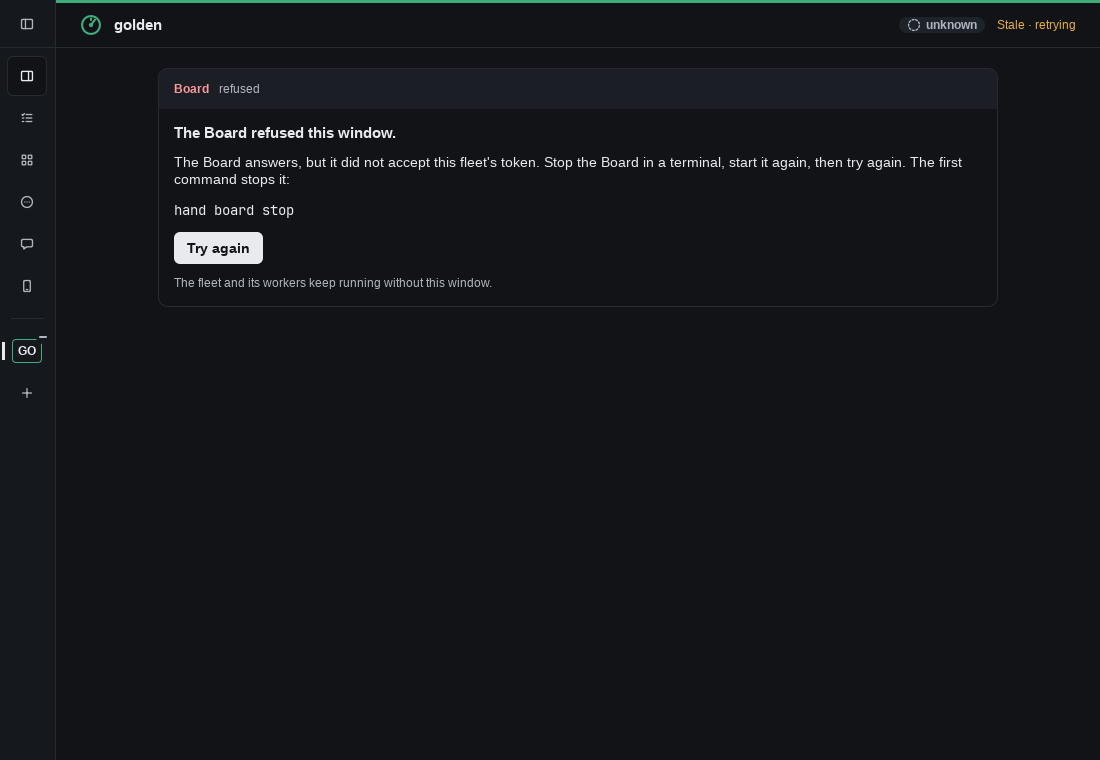
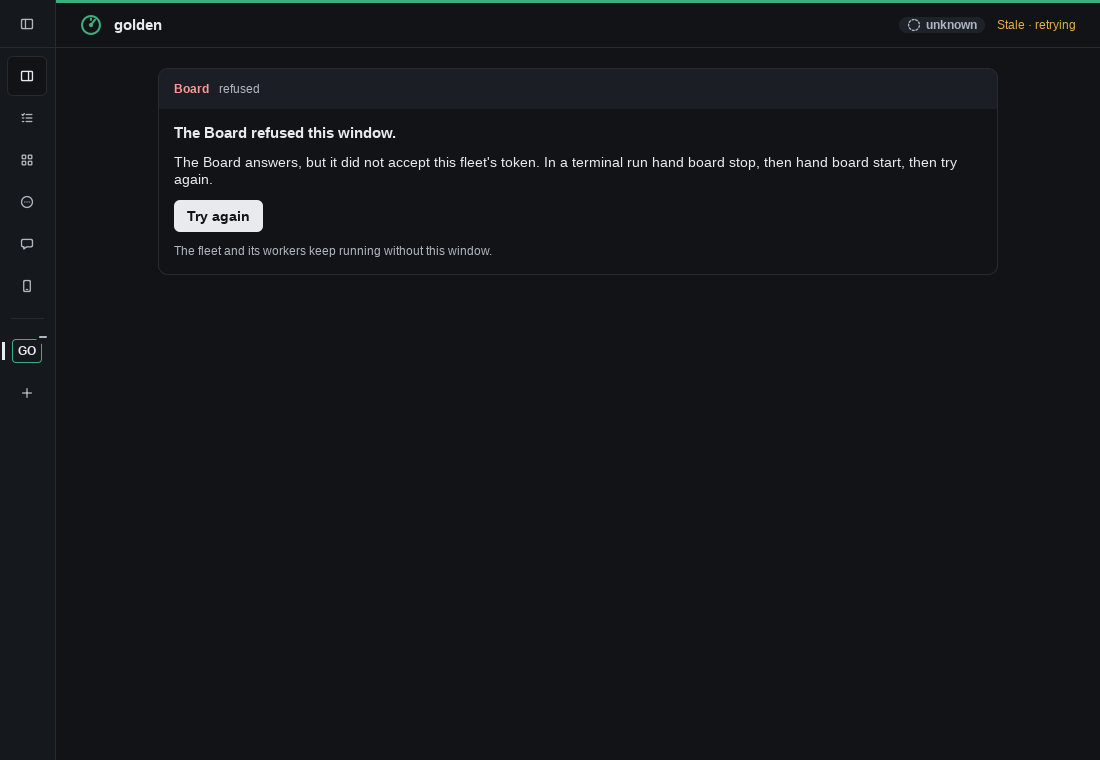
docs(desktop): read the first line of board.pid in the macOS checks, bring the Desktop surface notes in line with the window, and name both commands on the refused-token card

Changed region(s): [[0.1545, 0.2118, 0.4327, 0.3934], [0.4945, 0.2118, 0.8655, 0.2421]]

diff --git a/internal/desktop/start_test.go b/internal/desktop/start_test.go
@@ -150,7 +150,7 @@ func TestTheWindowStartsNothingWhenTheBoardRefusesTheToken(t *testing.T) {
 	tt := newTester(app)
 	app.StartRefresh()
 	tt.Frame()
-	mustText(t, tt, "The Board refused this window.", "hand board stop")
+	mustText(t, tt, "The Board refused this window.", "The Board answers, but it did not accept this fleet's token. In a terminal run hand board stop, then hand board start, then try again.")
 	if spy.count() != 0 {
 		t.Fatalf("starts = %d, want 0", spy.count())
 	}
@@ -554,7 +554,7 @@ func TestScenesBoardRefused(t *testing.T) {
 			app := startApp(t, func() (desktop.ReadModel, error) { return errorFixture(), nil }, (&startSpy{}).run)
 			app.Post = func(func()) {}
 			tt := darkTester(app, dark)
-			mustText(t, tt, "The Board refused this window.", "hand board stop", "Try again")
+			mustText(t, tt, "The Board refused this window.", "The Board answers, but it did not accept this fleet's token. In a terminal run hand board stop, then hand board start, then try again.", "Try again")
 			shot(t, tt, "board-refused-"+theme)
 		})
 	}

diff --git a/internal/desktop/boardstart.go b/internal/desktop/boardstart.go
@@ -216,8 +216,8 @@ func (a *App) stateCard(c *ui.Context, k kit.Colors, p palette) {
 			})
 	case a.auth:
 		card("Board", p.fail, "refused", "The Board refused this window.",
-			"The Board answers, but it did not accept this fleet's token. Stop the Board in a terminal, start it again, then try again. The first command stops it:",
-			"hand board stop", "The fleet and its workers keep running without this window.",
+			"The Board answers, but it did not accept this fleet's token. In a terminal run hand board stop, then hand board start, then try again.",
+			"", "The fleet and its workers keep running without this window.",
 			nil, func() {
 				if button(c, k, "start:retry", "Try again", true) {
 					a.Refresh()

diff --git a/internal/desktop/view_test.go b/internal/desktop/view_test.go
@@ -1234,7 +1234,7 @@ func TestEmptyStates(t *testing.T) {
 func TestErrorState(t *testing.T) {
 	app := newApp(t, errorFixture())
 	tt := newTester(app)
-	mustText(t, tt, "The Board refused this window.", "hand board stop")
+	mustText(t, tt, "The Board refused this window.", "The Board answers, but it did not accept this fleet's token. In a terminal run hand board stop, then hand board start, then try again.")
 	mustNotText(t, tt, "Back")
 	click(t, tt, "Try again")
 	mustText(t, tt, "The Board refused this window.")

diff --git a/internal/desktop/router_internal_test.go b/internal/desktop/router_internal_test.go
@@ -14,3 +14,10 @@ func TestAPairedHostsRefusalsShowTheirOwnSentenceNotTheLoopbackOne(t *testing.T)
 		}
 	}
 }
+
+func TestAnUnacceptedTokenNamesBothCommands(t *testing.T) {
+	want := "the board did not accept this fleet's token; stop the board with `hand board stop`, then start it again with `hand board start`"
+	if got := friendly(&APIError{Status: 401}); got != want {
+		t.Fatalf("401 = %q", got)
+	}
+}

diff --git a/.impeccable/surfaces/internal-desktop.md b/.impeccable/surfaces/internal-desktop.md
@@ -12,21 +12,21 @@ related_targets:
 ## Scope and mode
 
 - **Covers:** `hand-desktop`, a MyGo v0.7.4 window (pinned, cgo-free) that is a client of the running Board:
-  - the rail: 56px of icons (232px with labels) for Board with its Needs count, toned by the worst item's severity as the Board's is, Tasks, Conversation with its working dot, Screen and Companion (Board returns to the two panes; Tasks opens the searchable Tasks page; Conversation is inert until its page exists; Screen and Companion open the Board's pages in the browser), then a tinted mark for each fleet this machine can open;
+  - the rail: 56px of icons (232px with labels) for Board with its Needs count, toned by the worst item's severity as the Board's is, Tasks, Conversation with its working dot, Screen and Companion (Board returns to the two panes; Tasks opens the searchable Tasks page; Conversation is inert until its page exists; Companion opens the Companion page), then a tinted mark for each fleet this machine can open;
   - the two panes: Needs and Tasks on the left, divided by a draggable divider from the supervisor on the right (the chat starts at 38% wide clamped to 400 to 720 px and may be dragged down to 360 px, the work pane never under 440 px, the width kept in `prefs.json` and clamped to the room at every frame);
   - below 900px: no rail and no divider, the masthead's menu button opening the rail's items as a sheet, and the Board's three tabs (Needs, Tasks, Chat), one panel at a time, the work column at 880 px and the conversation at 760 px; the tab is remembered, seeded once as the Board seeds it, and an opened ref selects the tab that holds it;
   - the window's own size, kept in `prefs.json` beside the zoom and the divider, restored on start and clamped to the monitor's work area;
-  - the supervisor's pane head: its ref and model, the controls that apply (Resume with New session in the menu, or Start new, same as the supervisor; Interrupt; Force, a stand-in for the Board's "Screen misread?" until the blocked item is built; Stop with its second press) and an overflow menu with Refresh now, Open in browser and Refresh models; while it runs, the model line is the Board's model menu (Running now, the model and effort change, the switch to another harness, Refresh models) and a pending switch reads next turn with Cancel switch; with no supervisor ever, a Start strip of each harness's model and effort that starts one, with Drop switch when the last started supervisor carries a pending switch, and the status's hint on the composer's foot; a conversation that cannot be read shows its own error with Retry in the chat pane and keeps what it held; a link to the blocked Needs item, `The question is in Needs`, while the supervisor is blocked and Needs holds that item (the question and its buttons, or the key toolbar, are in the item);
+  - the supervisor's pane head: its ref and model, the controls that apply (Resume with New session in the menu, or Start new, same as the supervisor; Interrupt; Force, a stand-in for the Board's "Screen misread?" until the blocked item is built; Stop with its second press) and an overflow menu with Refresh now and Refresh models; while it runs, the model line is the Board's model menu (Running now, the model and effort change, the switch to another harness, Refresh models) and a pending switch reads next turn with Cancel switch; with no supervisor ever, a Start strip of each harness's model and effort that starts one, with Drop switch when the last started supervisor carries a pending switch, and the status's hint on the composer's foot; a conversation that cannot be read shows its own error with Retry in the chat pane and keeps what it held; a link to the blocked Needs item, `The question is in Needs`, while the supervisor is blocked and Needs holds that item (the question and its buttons, or the key toolbar, are in the item);
   - Needs: bands by severity in the page's order, each headed by its word in the band's tone; 44px rows with the kind's icon, refs and time; the top item open as a card with its band's toned header, any row opening in place and closing again, one open at a time; a report opens to its excerpt and Mark read, a failure to its attempt's reason, a decision to the Board's choice list, its recommended badge and consequence lines, a note and a primary Send answer; a sent answer collapses the row to "Sent <option> · waiting…" until the next status removes it, a picked `other` with no note is refused before the request with the Board's sentence and the note focused, and a server refusal keeps it open with the reason in the receipt; a kind with nothing to show stays inert; after Mark read or an answer a receipt toast shows for 4 seconds and the next item opens; nothing waiting shows All clear, when it cleared and the summary;
   - the conversation: the entries, the working turn and its queued messages, opened at the newest entry, and the composer pinned below it: one box with a two-row message field, the status's hint, the Ctrl Enter key hint and Send;
   - Tasks: the grouped task list, and each task's page in the viewer;
   - the Tasks page, opened by the rail's Tasks item or the fleet page's search field: a search over every task with the status, project, since and until filters, the applied filters as removable chips, the Board's day groups and 48 px rows with the state icon, ref, title, project badge, attempt line, deliverable and finish time, the total, and Previous/Next over its pages; an empty search and a page past the last show "No tasks match.", a refused parameter shows the board's sentence with Retry, and a row opens its task in the viewer, which closes back to the search;
-  - the pages of a task, an attempt and a decision, opened in the viewer over the Board, with Back through them and the close button, Escape or the backdrop for the whole stack; a report has no page of its own and opens its task at the report's card; an open run shows "Opening in the browser…" under the strip and its failure there with Dismiss, as does a document that fails to open;
+  - the pages of a task, an attempt and a decision, opened in the viewer over the Board, with Back through them and the close button, Escape or the backdrop for the whole stack; a report has no page of its own and opens its task at the report's card; a Board link with no page of its own in the window shows "this Board page has no page in this window" with Dismiss, as does a document that fails to open;
   - a document or a folder of the fleet in the same viewer, from a delivered file, a link to `/<fleet id>/doc/…` or a relative link inside a Markdown file: Markdown rendered, text as numbered lines read in windows of 500 through the API's `next` with Earlier and Later, a picture, and a folder's listing with its pager; a file's crumbs open its folders, Previous and Next step through the folder (a picture's through the pictures only), Copy path copies the fleet-relative path, and every other kind, such as PDF, HTML, SVG, CSV, video, audio and binary, and any refusal, shows the Board's sentence with Open in browser, which runs `hand open --doc PATH`;
   - an open decision's options, its note field and Send answer, a report's Ack, a message to the supervisor, and the supervisor controls: start, resume, stop, interrupt, force, and, while it is blocked, the ask's option buttons or the fixed key toolbar;
   - the empty and error states, including no board, no fleet (the New fleet form, its field errors and its failure card with the exact command), a token the board refuses and an action the board refuses;
   - auto-refresh: the selected fleet's status, its tasks list and the open page's data poll while the window is open (see Refresh);
-  - remote fleets: the rail's Connect remote fleet item and the zero-fleet card's button open one card (paste field and device name, then "Add 4d92…6ed6?" with Add and Back before any dial); a remote fleet's rail row shows a second line with its host's state, an icon shape and a word (Connected, Connecting, Host busy, Can't reach host, Board not running, Revoked, Not recognised, Key replaced), the masthead repeats it as a pill whose tooltip gives the host and its pairing date, and a refused fleet's card gives the pairing date with Pair again and Forget host; the icons and tones are the existing running, passing, waiting, idle and failure shapes, no new colour. A remote fleet hides Screen, Companion, Open in browser, Open as a page and Refresh models and shows no `hand open` or Board-start text; a malformed hosts file shows "Remote hosts are hidden" with its error.
+  - remote fleets: the rail's Connect remote fleet item and the zero-fleet card's button open one card (paste field and device name, then "Add 4d92…6ed6?" with Add and Back before any dial); a remote fleet's rail row shows a second line with its host's state, an icon shape and a word (Connected, Connecting, Host busy, Can't reach host, Board not running, Revoked, Not recognised, Key replaced), the masthead repeats it as a pill whose tooltip gives the host and its pairing date, and a refused fleet's card gives the pairing date with Pair again and Forget host; the icons and tones are the existing running, passing, waiting, idle and failure shapes, no new colour. A remote fleet hides Companion and Refresh models and shows no `hand open` or Board-start text; a malformed hosts file shows "Remote hosts are hidden" with its error.
 - **Not in v1:** any other write (attachments, because the API sends text only), the document viewer's Find, Copy contents, Download, CSV tables and Follow, Companion pairing, and a server-push channel: updates arrive by polling, never over Server-Sent Events.
 - **Mode:** Operate.
 
@@ -36,9 +36,9 @@ related_targets:
 - **Job:** answer "is anything paged?" without a browser, open one task, attempt or decision to read it, and send the supervisor one message.
 - **Constraints:**
   - the window is a client, never a second owner of state: it reads `/api/v1` over loopback, writes only a message, an answer, an acknowledgement or a supervisor control (start, resume, stop, interrupt, force and keys), and, wherever the New fleet form shows (the zero-fleet card or the rail item), runs `hand init` and `hand board start` from it, because a new fleet has no Board route yet (no other `hand` verb), and keeps its composer drafts in its own state folder;
-  - it lists a fleet when its link resolves and its `hand.db` is there, names it from the board when the board answers, and shows a fleet whose `board.token` is missing or unreadable with the `hand open` fix;
+  - it lists a fleet when its link resolves and its `hand.db` is there, names it from the board when the board answers, and shows a fleet whose `board.token` is missing or unreadable with the `hand open` fix, and one whose token the board refuses with the `hand board stop` then `hand board start` fix;
   - the credential is the token the board already writes, `board.token` in the fleet home, sent as the fleet's session cookie `hand_board_<fleet id>`. The desktop reads it; it never prints it and never adds it to a URL. A mutation reads the session's CSRF token from `GET /api/v1/session` and sends it as `X-Hand-CSRF`;
-  - the board address is `board.addr` in `$SECONDHAND_HOME`, the file `hand open` writes, and it must be a loopback address, because the API answers nowhere else;
+  - the board address is `board.addr` in `$SECONDHAND_HOME`, the file the board writes, and it must be a loopback address, because the API answers nowhere else;
   - opening and closing the window start and stop nothing: the board, the watcher and the fleet keep running;
   - Linux first: the window builds on macOS and Windows, and its binary refuses to start there with that reason, until those runs are green (`docs/platforms.md`);
   - light and dark follow the system through MyGo's theme;
@@ -56,7 +56,7 @@ OWN-WORLD: The Board's palette with both themes: white ground, `#f6f7f9` panel, 
 
 STORY: The operator opens the window and knows whether anything is paged: the masthead names the fleet and the supervisor's state, the rail's Board icon counts the Needs, in the tone of the worst. In the pane head they start, resume, stop (two presses) or interrupt the supervisor; when it is blocked, Force appears, the pane head shows only the state word and a link to Needs, and the blocked Needs item holds the question and its keys, each press carrying the screen's revision, digest and last pressed sequence. They read the toned rows, click the decision, choose an option, add a note and send the answer; a report a step away gets Ack. In the pane beside the work they type a message and press Ctrl+Enter (Cmd+Enter on macOS) to send it, or Enter for a new line; a half-typed draft waits there after a fleet switch or a closed window. Back returns. They close the window; nothing else about the fleet changes.
 
-FIRST VIEWPORT: At 1100×760: the 56px icon rail at the left (Board with its Needs count, Tasks, Conversation, Screen, Companion, then the fleet marks); the masthead with the tint rule, the fleet's mark, name and id, the state pill, the queued count and the context bar and figure; below it, the Needs and Tasks, and the supervisor's conversation with its pane head and its composer.
+FIRST VIEWPORT: At 1100×760: the 56px icon rail at the left (Board with its Needs count, Tasks, Conversation, Companion, then the fleet marks); the masthead with the tint rule, the fleet's mark, name and id, the state pill, the queued count and the context bar and figure; below it, the Needs and Tasks, and the supervisor's conversation with its pane head and its composer.
 
 FORM: It takes these raises:
 - from the Board: the severity ramp, the pale tone fills, the word-plus-shape rule and the flat resting surface;
@@ -84,11 +84,11 @@ One screenshot per scene, 1100×760, under `docs/images/desktop/`, written by th
 | `11-composer.png` | a typed message in the Board's one composer box, with Send; the chat pane is 418 px here, so the key hint is hidden |
 | `12-composer-error.png` | a failed send, its error and the text it kept |
 | `13-supervisor-controls.png` | a blocked supervisor's pane head with its controls and Force, the screen not yet in Needs so no link |
-| `14-open-error.png` | Open in browser with no `hand` to run, and its inline error |
+| `14-open-error.png` | a Board link with no page in the window, and its inline error |
 | `15-delivered.png` | the viewer's Delivered aside in a task's page: a PR and a link that open in the browser, a fleet file that opens in the viewer, and a file outside the fleet as plain text |
 | `16-blocked-ask.png` | a blocked supervisor: the question with one button per option in the blocked Needs item, in place of the key toolbar, and the pane head's link to it |
 | `17-open-link.png` | the viewer opened from a `handboard://open/` link, on a decision's page |
-| `18-overflow-menu.png` | the pane head's menu: Refresh now, Open in browser, Refresh models and the disabled notification row of a window where the system offers none |
+| `18-overflow-menu.png` | the pane head's menu: Refresh now, Refresh models and the disabled notification row of a window where the system offers none |
 | `85-notify-menu-<off, on or unavailable>-<light or dark>.png` | the same menu's notification row: unchecked, checked, and disabled with its reason |
 | `19-stop-armed.png` | Stop after its first press: "Press again to stop" |
 | `20-panes-<width>x<height>-<light or dark>.png` | the two panes at 1100×760 and 1440×900 in both themes |
@@ -140,8 +140,8 @@ One screenshot per scene, 1100×760, under `docs/images/desktop/`, written by th
 | `58-doc-text-window-1-1100x760-<light or dark>.png` | a text file's first window: "From line 1 of a 120 B file", Later, Previous and Next, and the numbered lines |
 | `59-doc-text-window-2-1100x760-<light or dark>.png` | the second window: "From line 4", Earlier, line numbers 4 and 5, tabs shown as spaces |
 | `60-doc-image-1100x760-<light or dark>.png` | a picture drawn from its bytes in a bordered box, Next and no Previous |
-| `61-doc-browser-1100x760-<light or dark>.png` | a PDF: the Board's sentence and Open in browser in the notice box |
-| `62-doc-refused-1100x760-<light or dark>.png` | a refused path: the Board's words and Open in browser, with no Retry |
+| `61-doc-browser-1100x760-<light or dark>.png` | a PDF: the Board's sentence in the notice box |
+| `62-doc-refused-1100x760-<light or dark>.png` | a refused path: the Board's words, with no Retry |
 | `63-doc-error-1100x760-<light or dark>.png` | a document the board did not answer: the error card with Close and Retry |
 | `64-doc-overtaken-1100x760-<light or dark>.png` | the newer document on screen after a slower answer for another one lands |
 | `65-doc-markdown-880x760-<light or dark>.png` | a Markdown file below 900 px |
@@ -162,7 +162,7 @@ The day divider prints the day in the entries' own clock (`Sat, Oct 31`), not th
 
 ## Auth decision
 
-The desktop reads the fleet's `board.token` and sends it as the cookie the board already accepts for that fleet, the same value `hand open` exchanges for a browser. A fleet without a token, or whose token the board refuses, is named in the error with the fix (`hand open` in the fleet); the token never appears in a URL, an error or a log. The API adds the actions and a read-only `GET /api/v1/session` that answers the session's CSRF token; a mutation sends it as `X-Hand-CSRF`, and the board refuses one without it with `403 csrf_required`. There is no local-trust bypass.
+The desktop reads the fleet's `board.token` and sends it as the cookie the board already accepts for that fleet, the same value the Board exchanges for a browser cookie. A fleet without a token is named in the error with the fix (`hand open` in the fleet), and one whose token the board refuses with `hand board stop` then `hand board start`; the token never appears in a URL, an error or a log. The API adds the actions and a read-only `GET /api/v1/session` that answers the session's CSRF token; a mutation sends it as `X-Hand-CSRF`, and the board refuses one without it with `403 csrf_required`. There is no local-trust bypass.
 
 ## Zoom decision
 
@@ -174,7 +174,7 @@ The window sends each press with the status's `revision`, `digest` and `pressed`
 
 ## Rules
 
-**The Actions Rule.** The only forms v1 renders are the New fleet form on the zero-fleet card and behind the rail's New fleet item (a name and a folder, with a Choose... button), the composer, an open decision's answer, a report's Ack, the model menu's model, effort and harness fields and the Start strip's; the supervisor controls are buttons in the pane head, and the ask's option buttons and key toolbar, in the blocked Needs item, press keys, with no fields. Every other click only changes which screen is shown, except Open in browser in the overflow menu, which runs `hand open` for the screen's object in the fleet's folder and writes nothing itself. The composer sends text only; attachments wait for an API contract that carries an inbox file by name.
+**The Actions Rule.** The only forms v1 renders are the New fleet form on the zero-fleet card and behind the rail's New fleet item (a name and a folder, with a Choose... button), the composer, an open decision's answer, a report's Ack, the model menu's model, effort and harness fields and the Start strip's; the supervisor controls are buttons in the pane head, and the ask's option buttons and key toolbar, in the blocked Needs item, press keys, with no fields. Every other click only changes which screen is shown, and the window runs no `hand open`. The composer sends text only; attachments wait for an API contract that carries an inbox file by name.
 
 **The One Owner Rule.** The board owns state. The window reads `board.token`, `board.addr` and the fleet links, opens no fleet database, writes only its composer draft file and `prefs.json` beside it (and, wherever the New fleet form shows, runs `hand init` and `hand board start` from it: a new fleet has no Board route yet, so these are the only steps taken before a Board can serve them), and does not import the CLI, the board service or the state store.
 

diff --git a/docs/dogfood/macos.md b/docs/dogfood/macos.md
@@ -427,7 +427,7 @@ If it fails: file what the owner saw, and what `hand attach supervisor` printed 
 - **Proves:** the `hand open` starts the board and opens the window row.
 - **Run:** needs human.
 - **Real sessions:** 0.
-- **Preconditions:** `M0` passed. No board of this home runs: stop one that you started, with `kill $(cut -d' ' -f1 $SECONDHAND_HOME/board.pid)`. Nothing listens on port 7777: `lsof -nP -iTCP:7777 -sTCP:LISTEN` prints nothing. Otherwise `skip` with `port 7777 busy`, and do not stop what listens.
+- **Preconditions:** `M0` passed. No board of this home runs: stop one that you started, with `kill $(head -n1 $SECONDHAND_HOME/board.pid | cut -d' ' -f1)`. Nothing listens on port 7777: `lsof -nP -iTCP:7777 -sTCP:LISTEN` prints nothing. Otherwise `skip` with `port 7777 busy`, and do not stop what listens.
 
 Steps:
 
@@ -507,7 +507,7 @@ SECONDHAND_HOME=$H2 $D/old/hand version
 cat $D/fleet2/watch.pid $H2/board.pid
 sleep 5
 SECONDHAND_HOME=$H2 $D/old/hand orient | grep '^watch:'
-lsof -t -nP -iTCP:$(cut -d: -f2 $H2/board.addr) -sTCP:LISTEN | grep -qx $(cut -d' ' -f1 $H2/board.pid) && echo board-answers
+lsof -t -nP -iTCP:$(cut -d: -f2 $H2/board.addr) -sTCP:LISTEN | grep -qx $(head -n1 $H2/board.pid | cut -d' ' -f1) && echo board-answers
 ```
 
 **3.** Ask the owner: *During the update, did macOS show any dialog or notification about `hand`, such as "cannot be opened" or "malware"?* (yes or no, and its text).
@@ -542,7 +542,7 @@ test ! -e ~/Library/LaunchAgents/dev.secondhand.dogfood.board.plist && echo free
 ```zsh
 . $D/env.sh; cd $D/fleet
 PLIST=~/Library/LaunchAgents/dev.secondhand.dogfood.board.plist
-kill $(cut -d' ' -f1 $SECONDHAND_HOME/board.pid) 2>/dev/null
+kill $(head -n1 $SECONDHAND_HOME/board.pid | cut -d' ' -f1) 2>/dev/null
 TOOLS=$(dirname $(command -v claude)):$(dirname $(command -v git))
 cat > $PLIST <<EOF
 <?xml version="1.0" encoding="UTF-8"?>
@@ -576,7 +576,7 @@ launchctl load $PLIST
 sleep 10
 launchctl list | grep dev.secondhand.dogfood
 hand board start > /dev/null && echo board-answers
-ps eww -p $(cut -d' ' -f1 $SECONDHAND_HOME/board.pid) | tr ' ' '\n' | grep '^PATH='
+ps eww -p $(head -n1 $SECONDHAND_HOME/board.pid | cut -d' ' -f1) | tr ' ' '\n' | grep '^PATH='
 ```
 
 **3.** The board must keep the watcher alive. Kill the watcher, and wait up to 60 seconds:
@@ -601,7 +601,7 @@ EOF
 
 ```zsh
 . $D/env.sh
-echo ". $D/env.sh; cd $D/fleet; hand orient | sed -n 1,5p; launchctl list | grep dev.secondhand.dogfood; lsof -t -nP -iTCP:\$(cut -d: -f2 \$SECONDHAND_HOME/board.addr) -sTCP:LISTEN | grep -qx \$(cut -d' ' -f1 \$SECONDHAND_HOME/board.pid) && echo board-answers"
+echo ". $D/env.sh; cd $D/fleet; hand orient | sed -n 1,5p; launchctl list | grep dev.secondhand.dogfood; lsof -t -nP -iTCP:\$(cut -d: -f2 \$SECONDHAND_HOME/board.addr) -sTCP:LISTEN | grep -qx \$(head -n1 \$SECONDHAND_HOME/board.pid | cut -d' ' -f1) && echo board-answers"
 ```
 
 Ask the owner: *Log out of macOS from the Apple menu, log in again, wait one minute, then open Terminal and run that line. Paste the output here. Did it print `board-answers`, a `launchctl` line with a number in its first column, and `supervisor: ... running`?* (yes or no, and the output).
@@ -614,7 +614,7 @@ Expected:
 - after login, the board runs again, and the board's watcher resumed the supervisor (`supervisor: s... claude haiku low running`, perhaps `(resumes s...)`), which proves that the board's `PATH` finds `claude`;
 - the answer is yes.
 
-Evidence: `{ launchctl list | grep dev.secondhand.dogfood; hand orient | sed -n 1,5p; ps eww -p $(cut -d' ' -f1 $SECONDHAND_HOME/board.pid) | tr ' ' '\n' | grep '^PATH='; } 2>&1 | ev M11`, and the owner's answer.
+Evidence: `{ launchctl list | grep dev.secondhand.dogfood; hand orient | sed -n 1,5p; ps eww -p $(head -n1 $SECONDHAND_HOME/board.pid | cut -d' ' -f1) | tr ' ' '\n' | grep '^PATH='; } 2>&1 | ev M11`, and the owner's answer.
 
 If it fails: file the output above and `tail -20 $SECONDHAND_HOME/board.log`.
 
